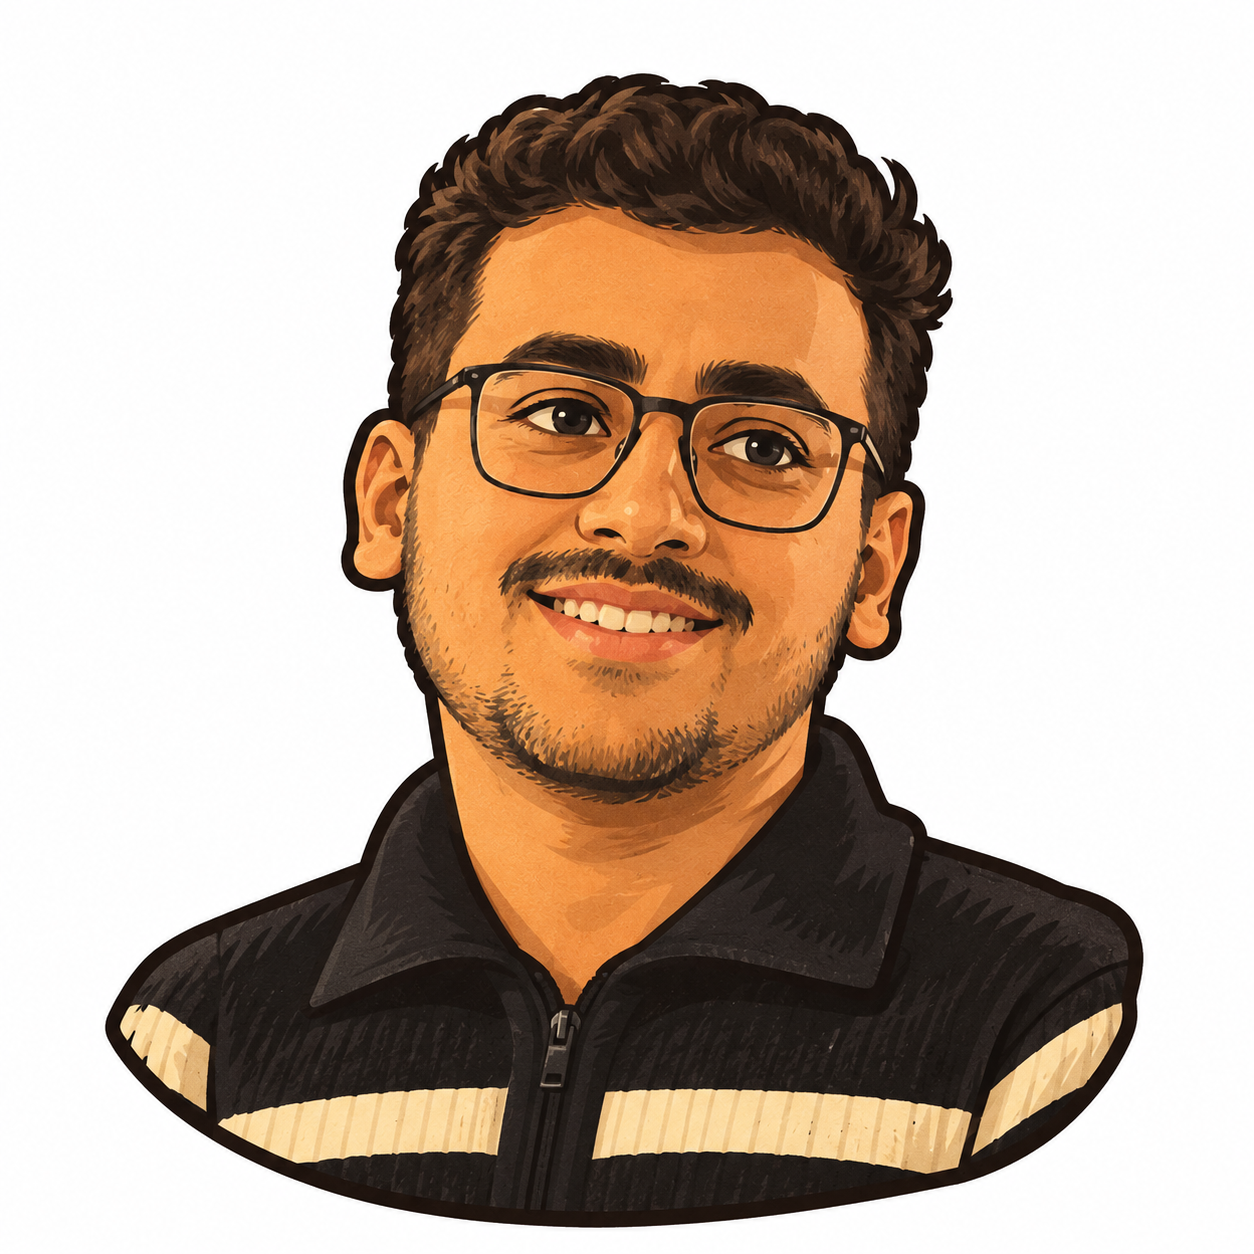
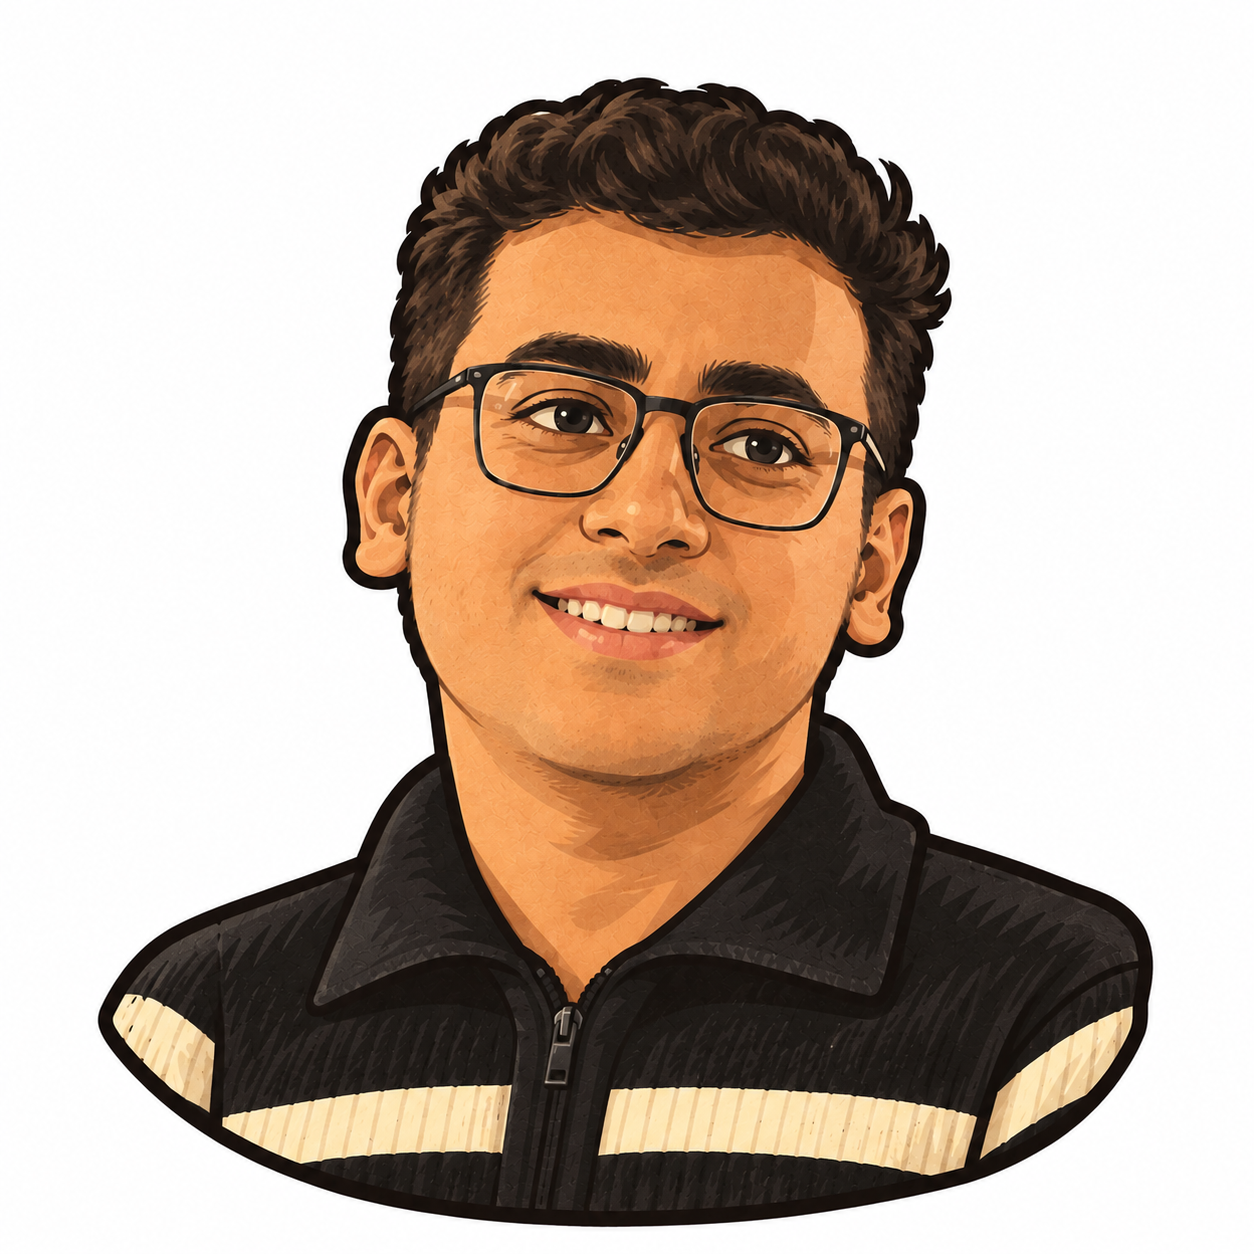
New cartoon portrait, with a lighter face
The clean-shaven cartoon replaces the earlier one (same file name). make_ascii_svg.py
now blanks luminance above 0.70 (was 0.80) and brightens mid-tones a little more
(gamma 1.32, was 1.18), so the skin shading no longer fills the cheeks with dots while
the glasses, eyes, smile and jaw stay sharp. Portrait regenerated with the repo's own
scripts.

diff --git a/scripts/make_ascii_svg.py b/scripts/make_ascii_svg.py
@@ -36,9 +36,9 @@ RAMP = " .`:-=+*cs#%@"  # bright(sparse) -> dark(dense); leading space clears bg
 # light global tuning is needed here.
 CONTRAST = 1.05
 BRIGHTNESS = 1.0
-GAMMA = 1.18          # >1 brightens mids -> face lands in sparser chars
+GAMMA = 1.32          # >1 brightens mids -> face lands in sparser chars (1.32: clean skin)
 SHARPEN = False
-WHITE_FLOOR = 0.80    # luminance above this is forced to blank (space)
+WHITE_FLOOR = 0.70    # luminance above this is forced to blank (space); 0.70 clears skin shading
 
 PAD = 20
 TITLEBAR_H = 30
